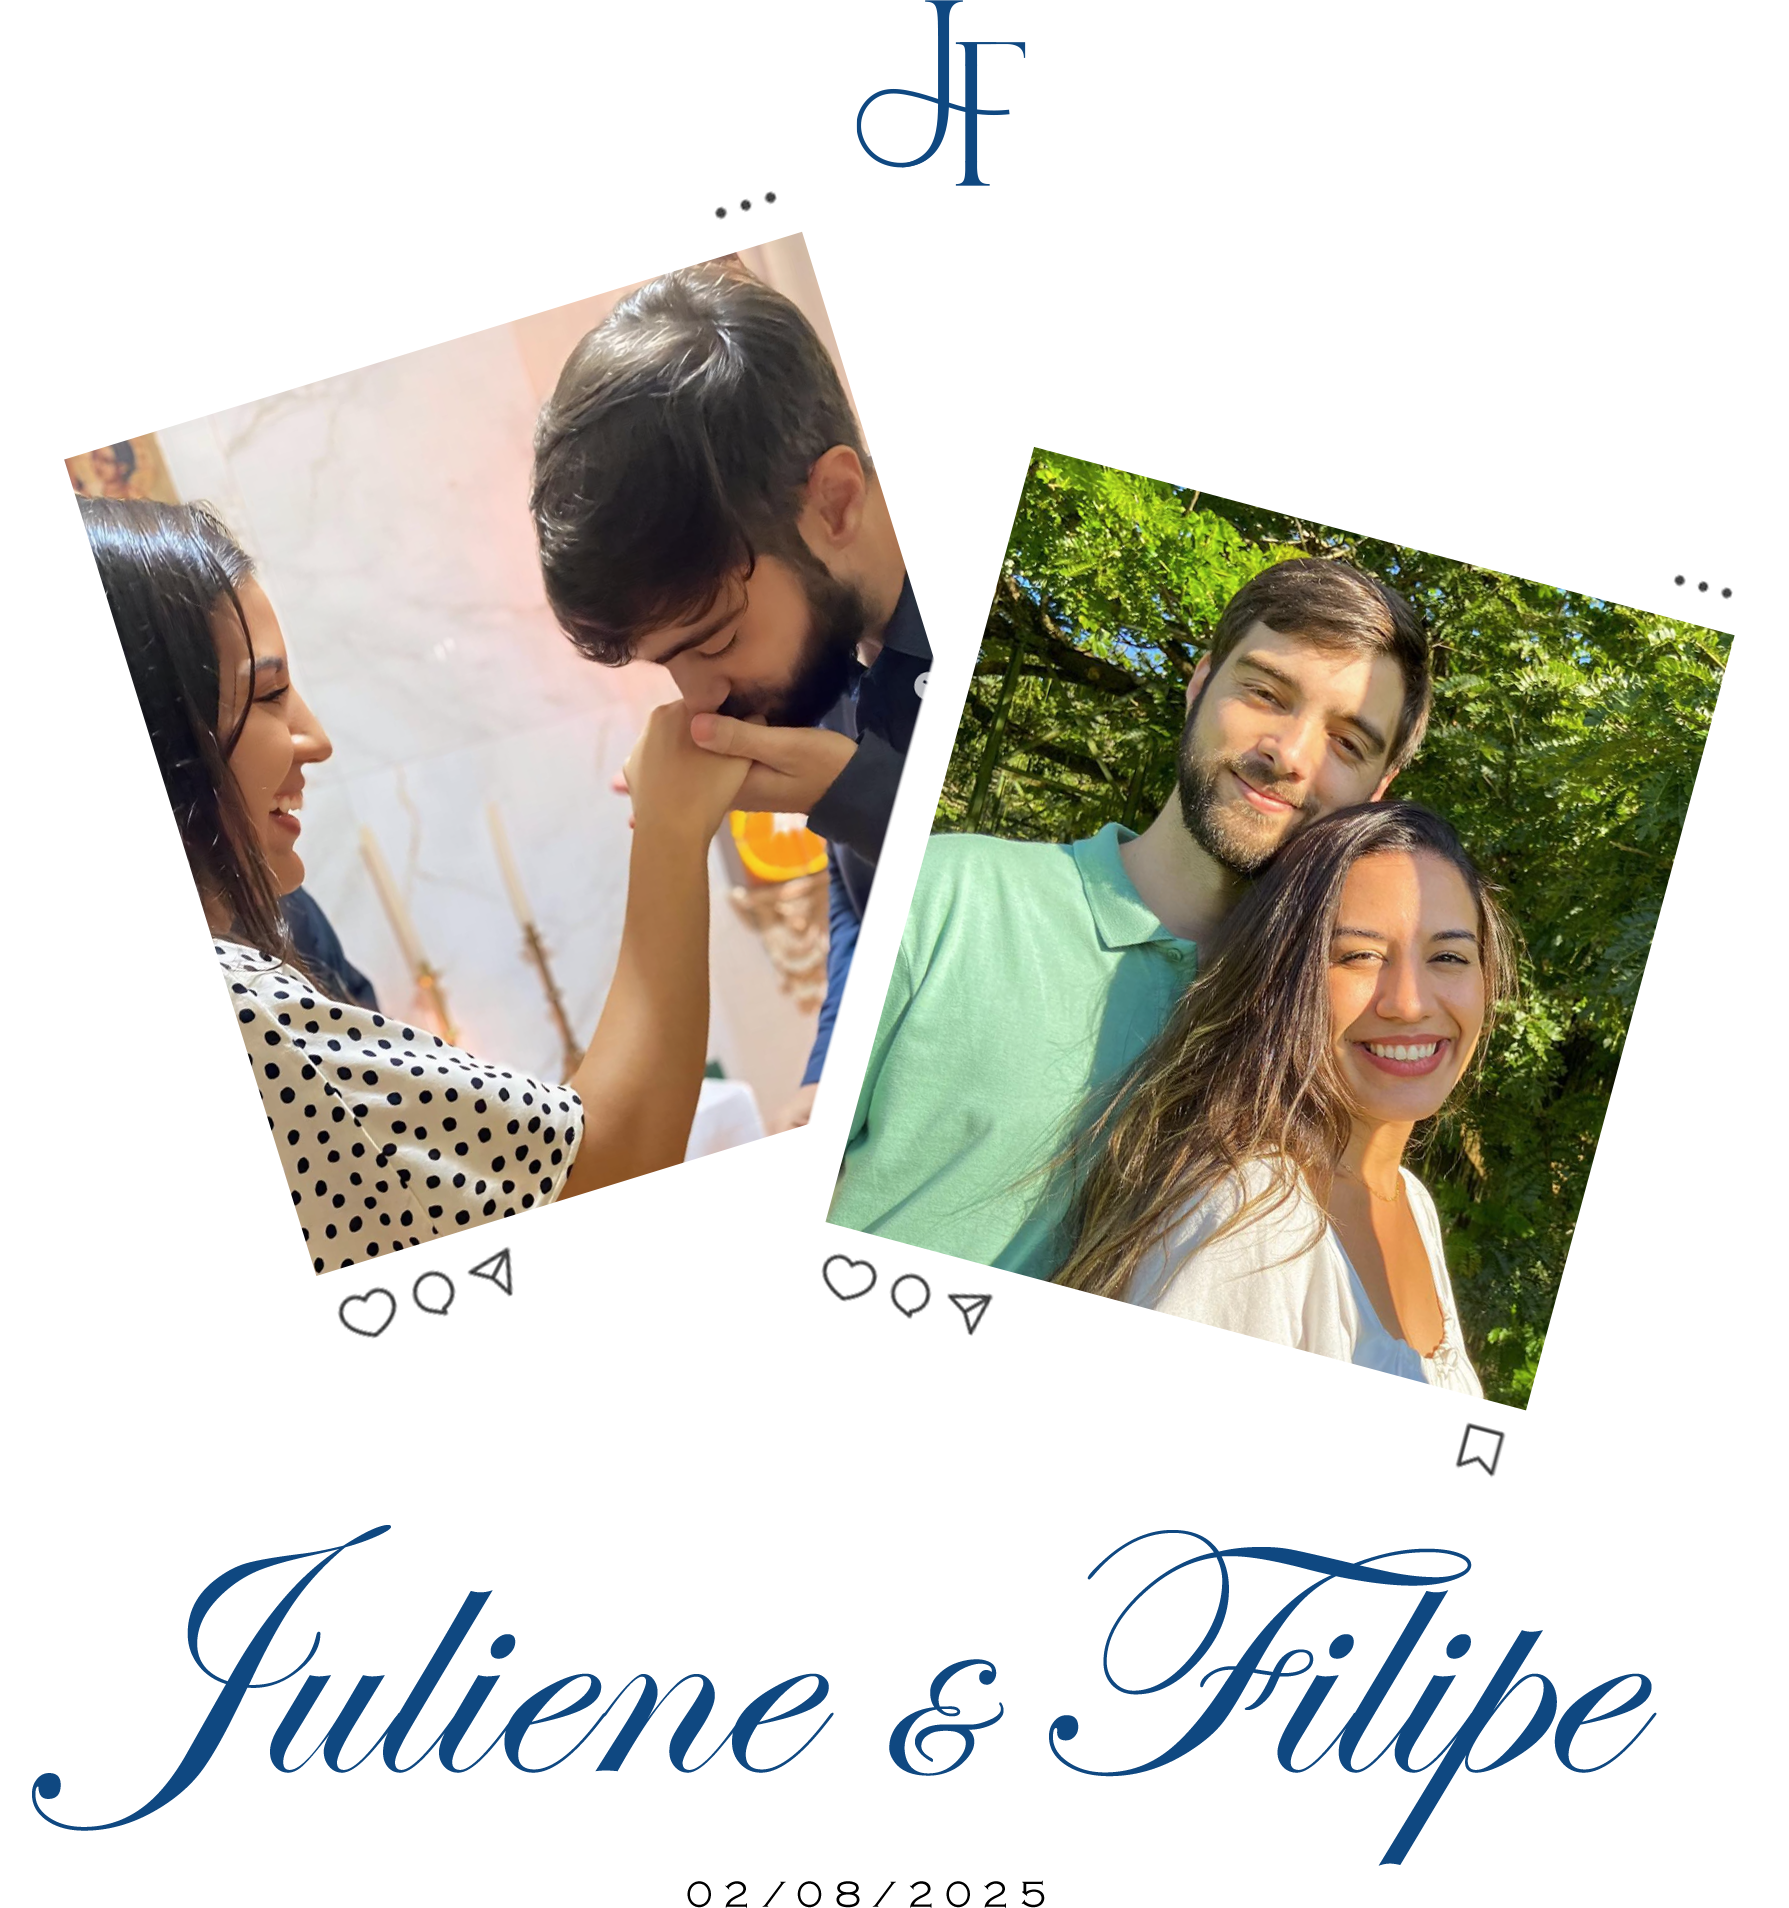
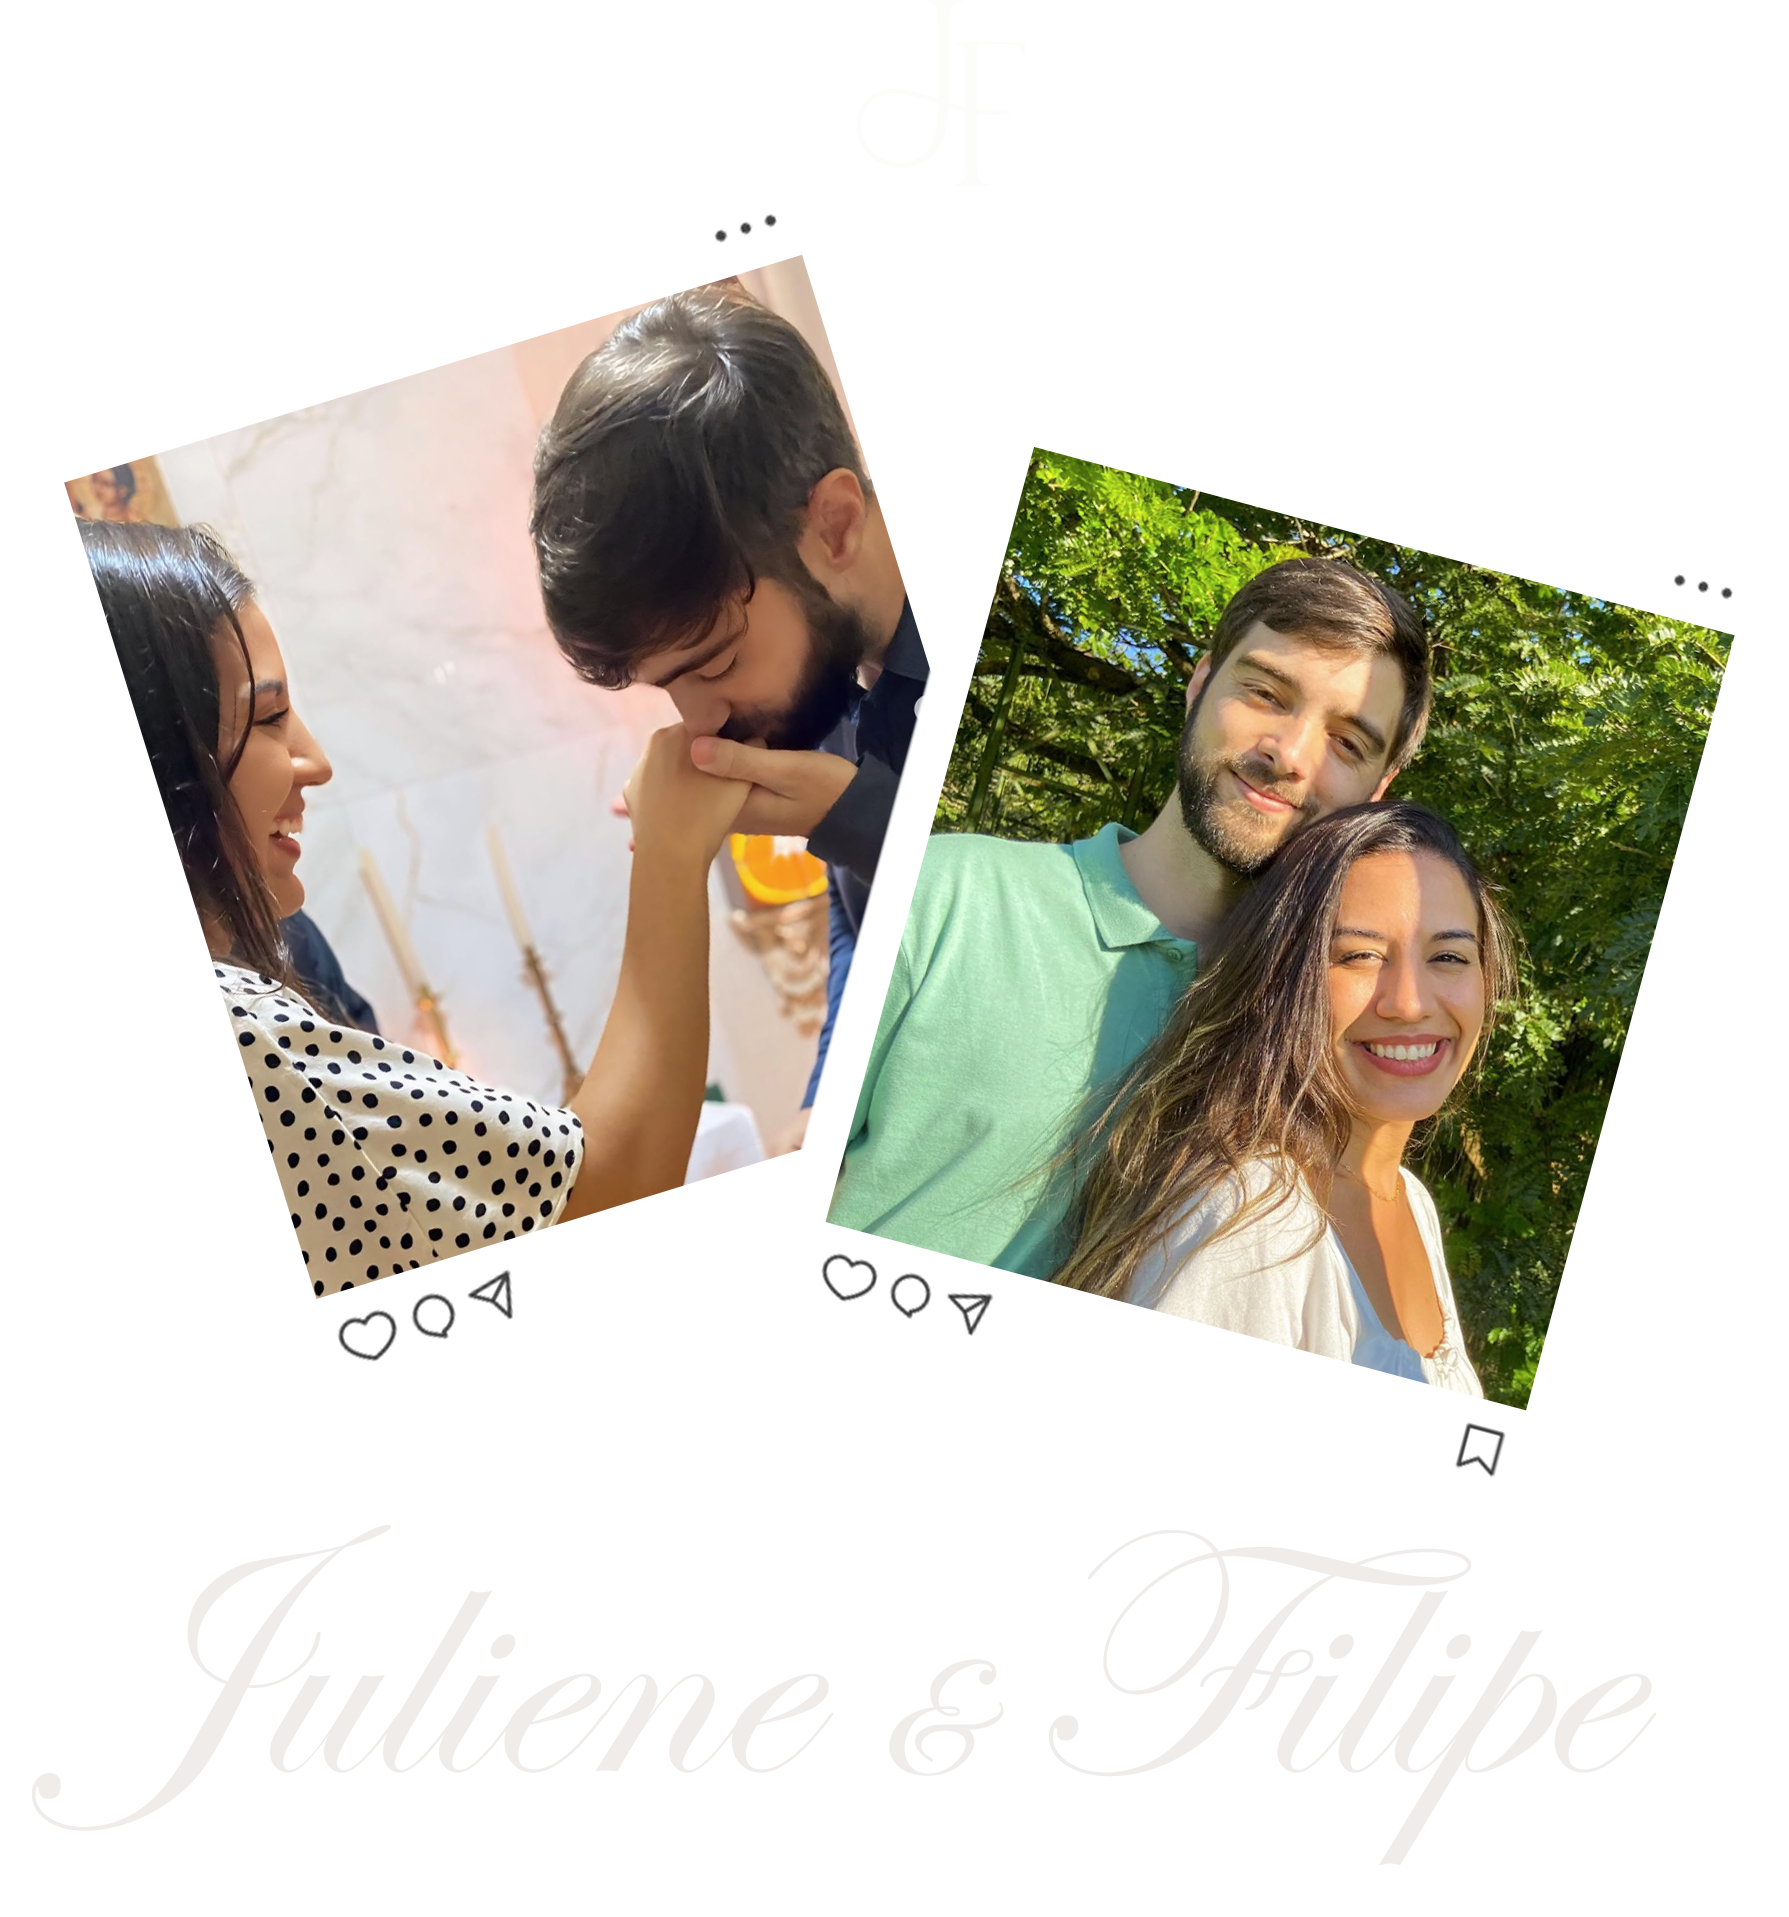
Add files via upload

diff --git a/style.css b/style.css
@@ -6,13 +6,12 @@ body {
   margin: 0;
   padding: 0;
   font-family: Arial , sans-serif;
-  background-image: url('background.png');
+  background-image: url('background.png') ;
   background-size: cover;
   background-position: center;
-  background-repeat: repeat;
+  background-repeat: no-repeat;
   text-align: center;
   color: rgb(255, 252, 229);
-  background-color: #f0ecea;
 
 }
 
@@ -62,11 +61,11 @@ button:hover {
 }
 
 .botao2 {
-  background-color: #30a2e4;
+  background-color: #db8420;
 }
 
 .botao2:hover {
-  background-color: #186fa1;
+  background-color: #bb6e16;
 }
 
 .botao3 {
